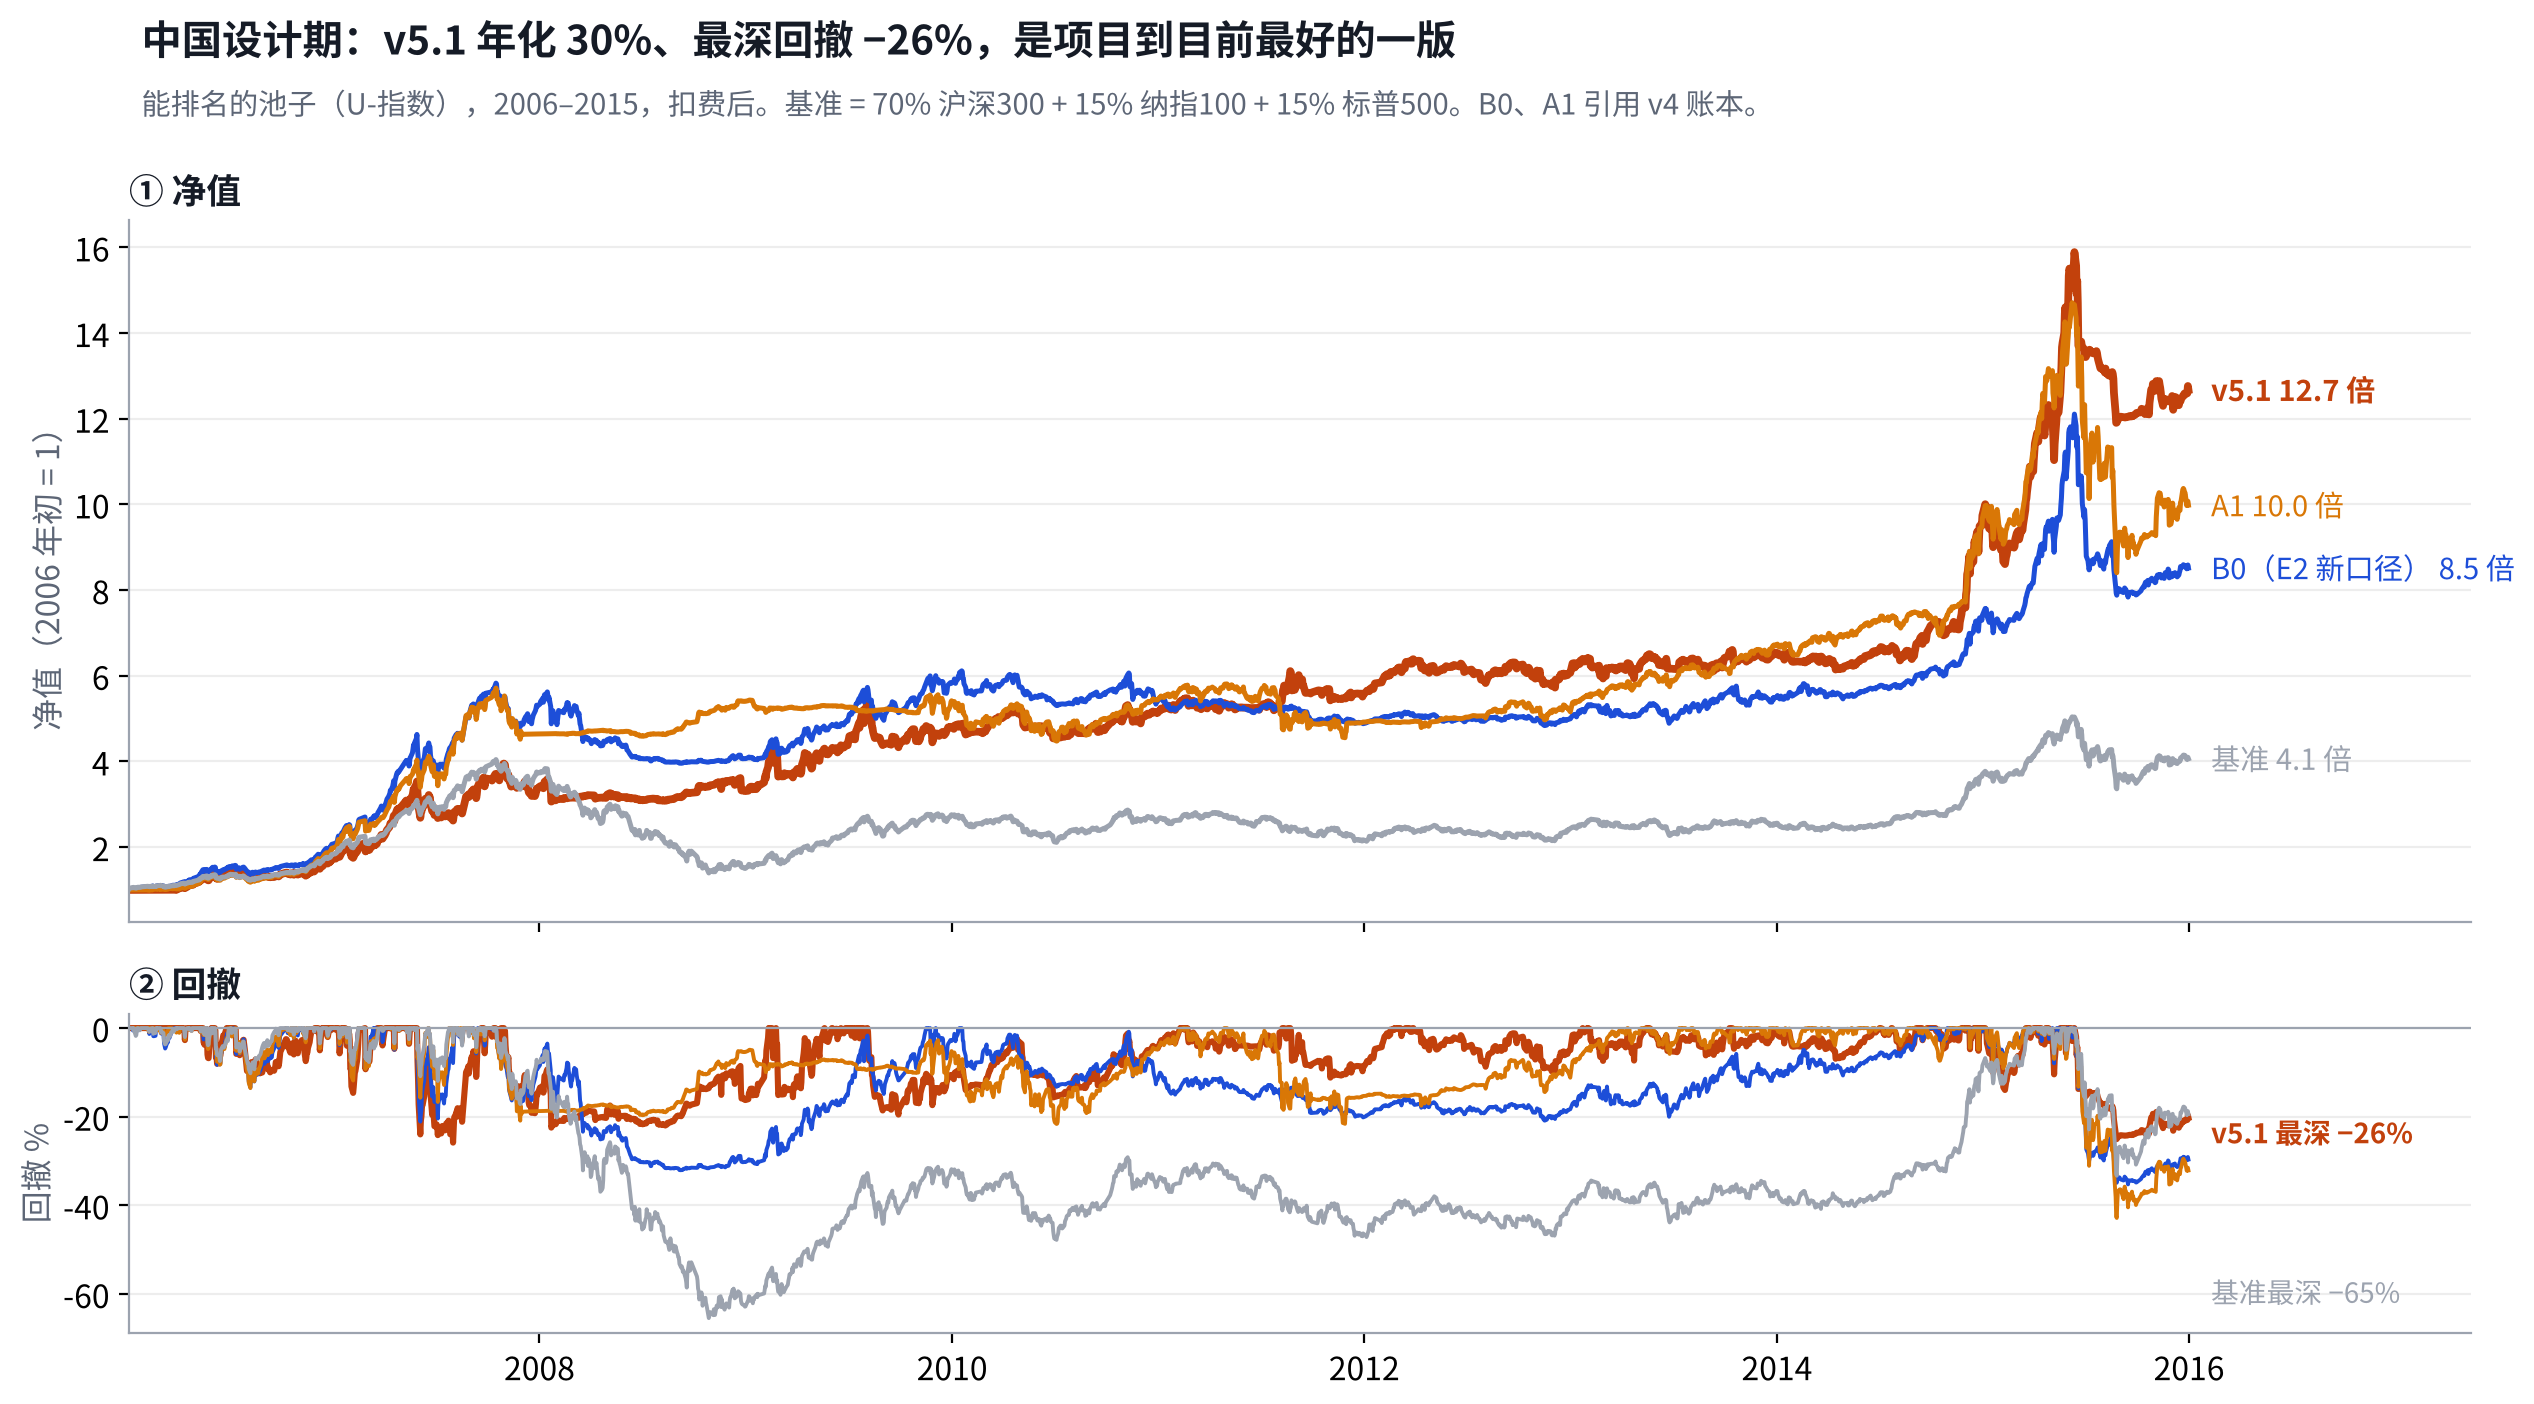
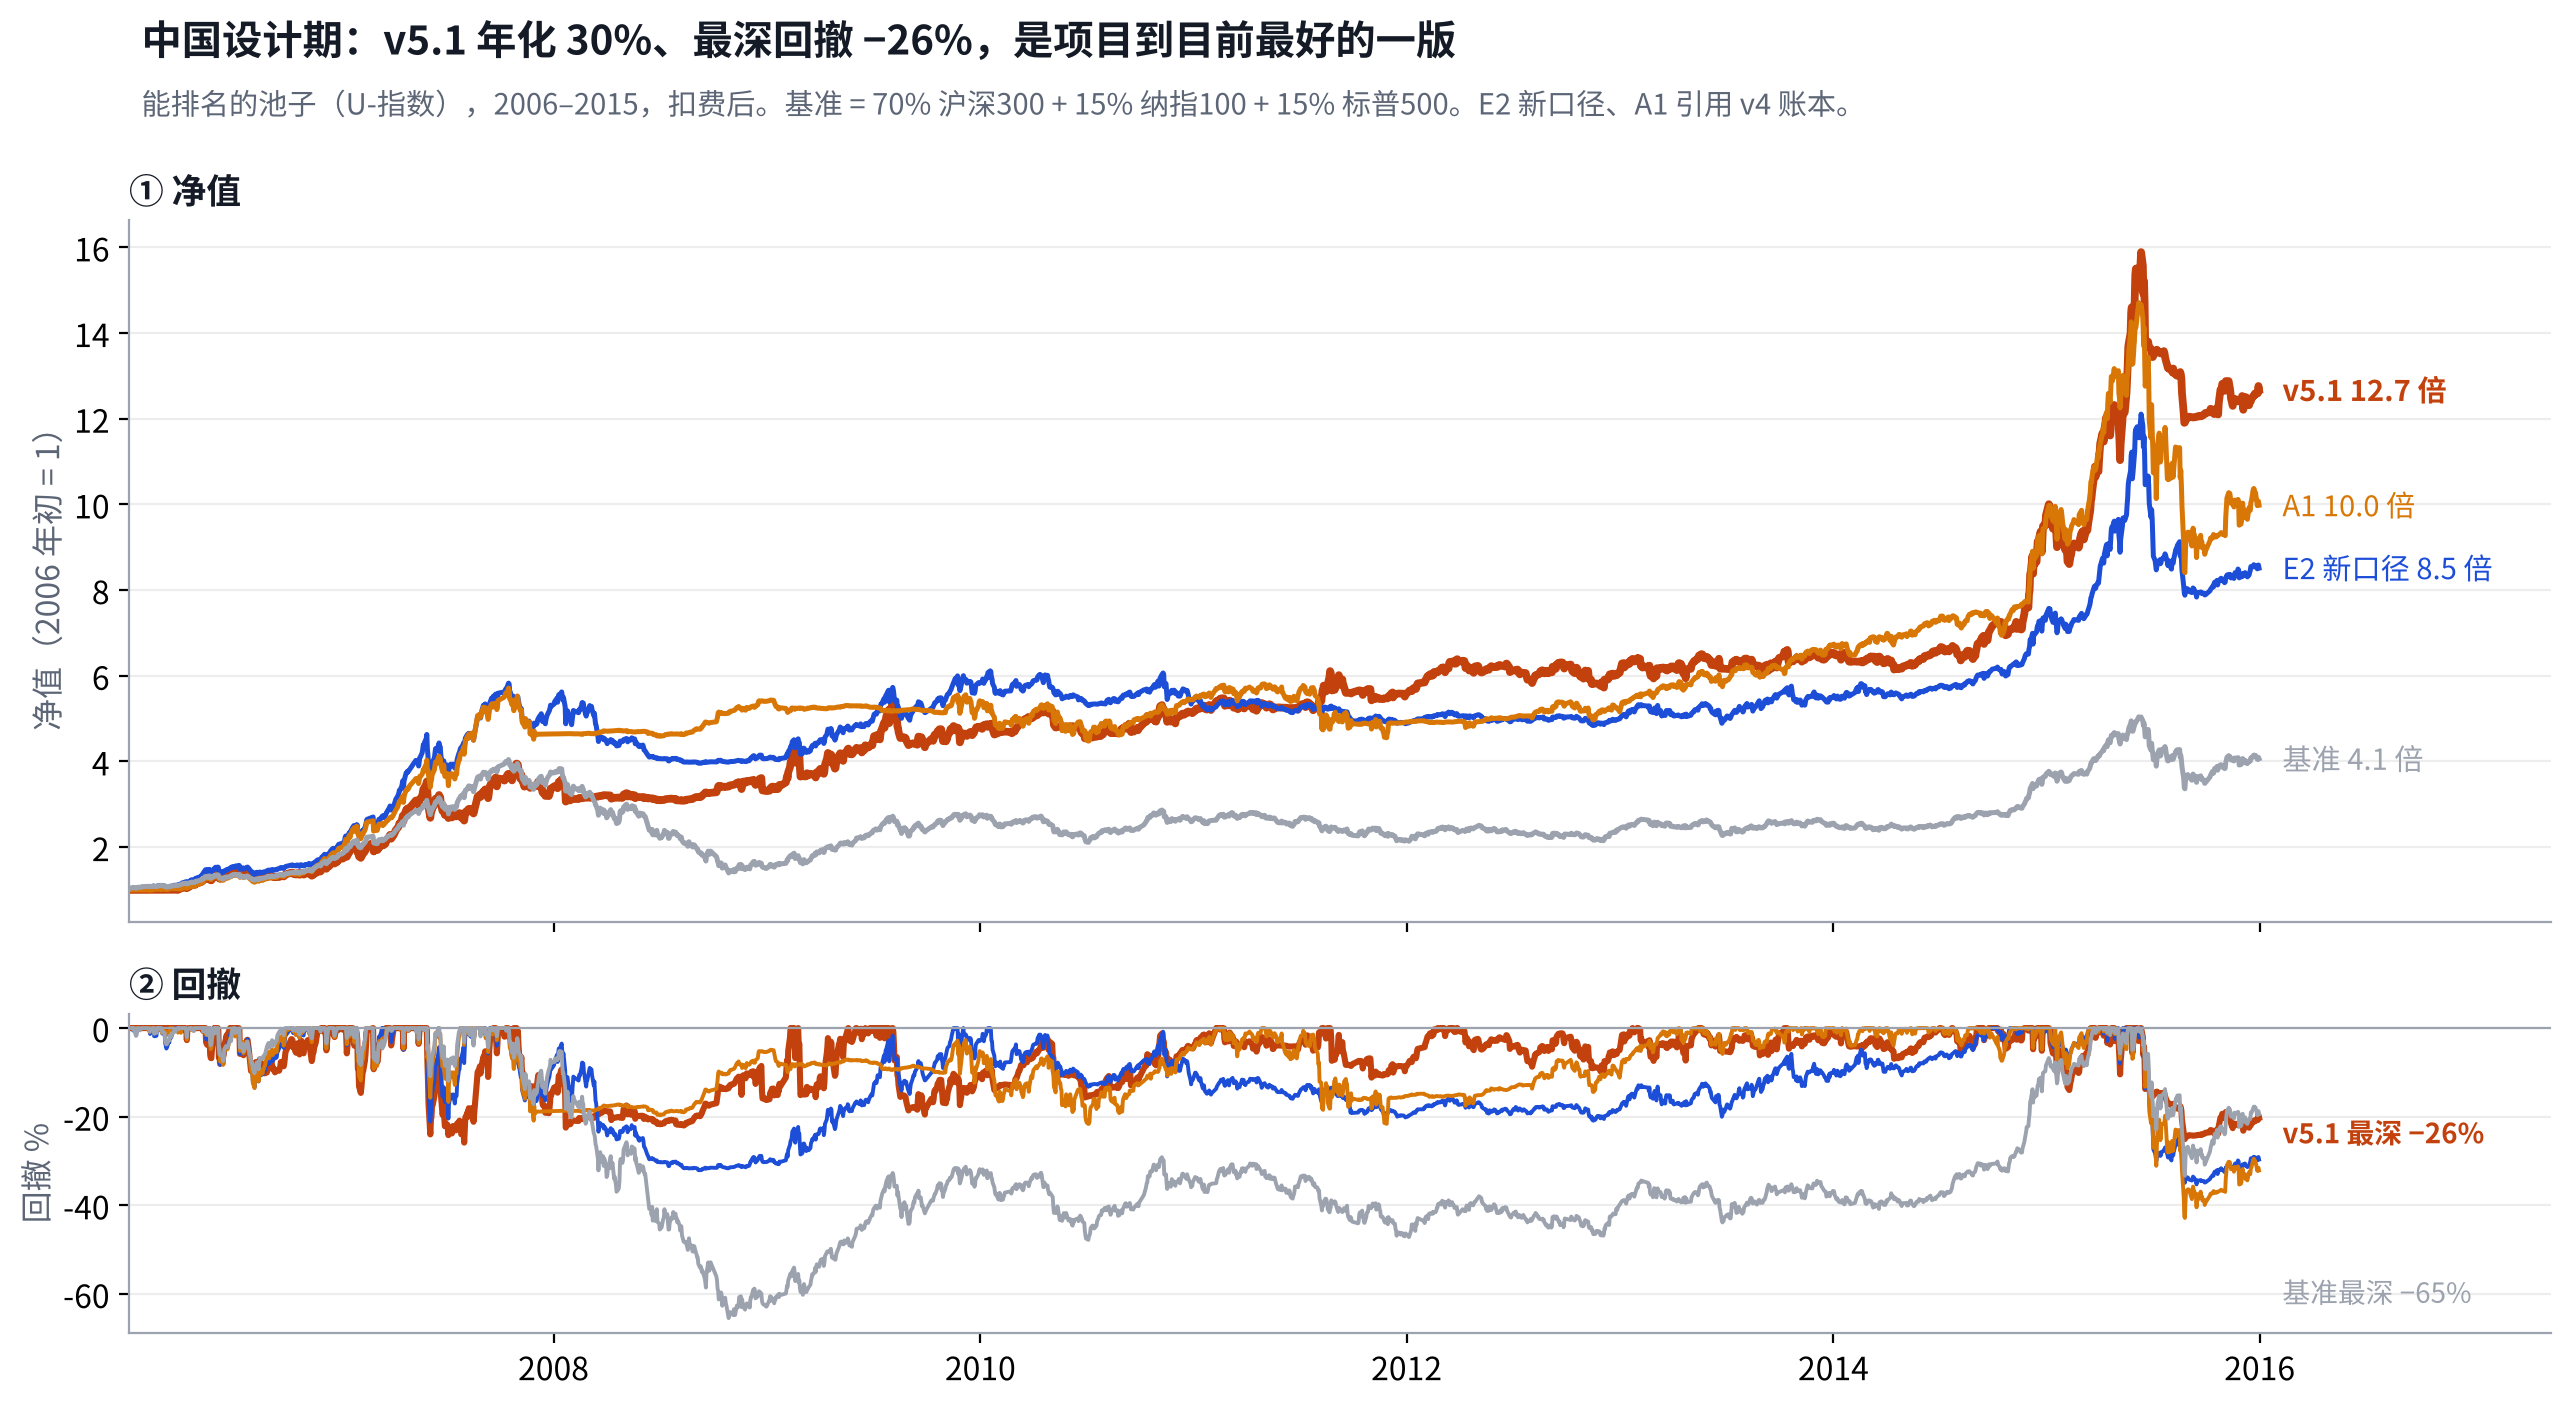
备忘 21.1：面向 Owner 统一用“E2 新口径”，不再用代号 B0
Claude-Session: https://claude.ai/code/session_01PmXaEwvnhMrSzwWPeiEpbL

diff --git a/results/v5.1/report/charts.py b/results/v5.1/report/charts.py
@@ -17,8 +17,8 @@ def net(f, col='net'):
 v = net(R / 'v5.1/design/index/daily.csv').loc['2006':'2015']
 b0 = net(R / 'v4/r5/design/B0/index/net.csv').loc['2006':'2015']; a1 = net(R / 'v4/r5/design/A1/index/net.csv').loc['2006':'2015']
 bm = net(R / 'v5.1/design/benchmark.csv', 'benchmark').loc['2006':'2015']
-df = pd.DataFrame({'v5.1': v, 'B0（E2 新口径）': b0, 'A1': a1, '基准': bm}).fillna(0); nav = (1 + df).cumprod()
-cols = {'v5.1': BAD, 'B0（E2 新口径）': BLUE, 'A1': A1C, '基准': GREY}
+df = pd.DataFrame({'v5.1': v, 'E2 新口径': b0, 'A1': a1, '基准': bm}).fillna(0); nav = (1 + df).cumprod()
+cols = {'v5.1': BAD, 'E2 新口径': BLUE, 'A1': A1C, '基准': GREY}
 fig, (ax, bx) = plt.subplots(2, 1, figsize=(13, 6.4), sharex=True, gridspec_kw={'height_ratios': [2.2, 1]})
 for c in nav:
     ax.plot(nav.index, nav[c], color=cols[c], lw=2.8 if c == 'v5.1' else 1.8, label=c)
@@ -29,7 +29,7 @@ bx.set_ylabel('回撤 %', color=MUTED); bx.grid(axis='y', alpha=.22); bx.axhline
 bx.text(nav.index[-1] + pd.Timedelta(days=40), -26, 'v5.1 最深 −26%', color=BAD, fontsize=10, weight='bold'); bx.text(nav.index[-1] + pd.Timedelta(days=40), -62, '基准最深 −65%', color=GREY, fontsize=10)
 ax.set_title('① 净值', loc='left', fontsize=12.5, weight='bold', color=INK); bx.set_title('② 回撤', loc='left', fontsize=12.5, weight='bold', color=INK)
 title(fig, '中国设计期：v5.1 年化 30%、最深回撤 −26%，是项目到目前最好的一版',
-      '能排名的池子（U-指数），2006–2015，扣费后。基准 = 70% 沪深300 + 15% 纳指100 + 15% 标普500。B0、A1 引用 v4 账本。')
+      '能排名的池子（U-指数），2006–2015，扣费后。基准 = 70% 沪深300 + 15% 纳指100 + 15% 标普500。E2 新口径、A1 引用 v4 账本。')
 fig.tight_layout(); fig.savefig(OUT / 'm18-v51-china.png', dpi=200, bbox_inches='tight', facecolor='white'); plt.close(fig)
 # m19
 rows = []

diff --git a/docs/owner/v5-research-memo.md b/docs/owner/v5-research-memo.md
@@ -21,7 +21,7 @@
 
 ## 0. 设计期结果：中国十年是最好的一版，换个市场不成立，v5.1 不入围
 
-> **中国设计期年化 30%、最深回撤 −26%，四个对照都赢了；但同一套规则放到美国 ETF 上，二十多年只有 1.3%。主要原因是换手太高：每年双边换手 43–59 倍，成本吃掉 3–6 个点，这是我事前画像里估错的地方。按跑之前写死的规则，v5.1 不入围，一次性检验只有 B0。**
+> **中国设计期年化 30%、最深回撤 −26%，四个对照都赢了；但同一套规则放到美国 ETF 上，二十多年只有 1.3%。主要原因是换手太高：每年双边换手 43–59 倍，成本吃掉 3–6 个点，这是我事前画像里估错的地方。按跑之前写死的规则，v5.1 不入围，一次性检验只有 E2 新口径。**
 
 ### ① 入围 7 条：过了 5 条，栽在“换个市场”和“顺应市场”
 
@@ -35,20 +35,20 @@
 | **5 别的市场也成立** | 美国 ETF 上赢随机、赢基准 | 年化 **1.3%**，基准 8.2% | **未通过** |
 | **6 顺应市场** | 牛市超额 ≥ 0；反弹 t 值 ≥ −2 | 牛市 **−28**；反弹 t 值 **−2.36** | **未通过** |
 
-第 2 条通过，所以 A1 的退路不启用；入围名单只有 B0。这些都是跑之前写死的，看到结果以后不改。
+第 2 条通过，所以 A1 的退路不启用；入围名单只有 E2 新口径（预注册里的代号是 B0）。这些都是跑之前写死的，看到结果以后不改。
 
 ### ② 中国十年：每一年和事前画像对得上
 
 ![中国设计期 v5.1、B0、A1、基准的净值和回撤](../assets/v5-memo/m18-v51-china.png)
 
-| 年份 | 事前预测（和 B0 比） | v5.1 | B0 | 基准 | 对了吗 |
+| 年份 | 事前预测（和 E2 新口径比） | v5.1 | E2 新口径 | 基准 | 对了吗 |
 | --- | --- | --- | --- | --- | --- |
 | **2006–07** | 少赚 | 74%、93% | 106%、156% | 83%、104% | **对** |
 | **2008** | 略好 | **−1%** | −23% | −60% | **对** 好得比预想多 |
-| **2009** | 少赚 | 45% | 43% | 83% | **一半** 跑输基准，但没输 B0 |
+| **2009** | 少赚 | 45% | 43% | 83% | **一半** 跑输基准，但没输 E2 新口径 |
 | **2010–14** | 明显多赚 | 7、8、9、8、49% | −7、−10、2、10、35% | −4、−18、12、5、45% | **对** |
 | **2015** | 略好 | **30%** | 15% | 10% | **对** 好得比预想多 |
-| **可交易池** | 明显好于 B0 | 15.8% | 8.7% | 15.6% | **对** |
+| **可交易池** | 明显好于 E2 新口径 | 15.8% | 8.7% | 15.6% | **对** |
 
 - **转折时点都落在疼痛表里**：2007、2009、2015 年见顶后 8–27 天减到半仓；2008 年见底后 10 天回到半仓、45 天满仓。和设计时的画像完全一致。
 - **稳健**：17 行稳健性里，指数池年化在 24–38% 之间；成本加倍 25.8%，只在周末减仓 28.6%，不设硬闸门 30.0%，去掉最好的 3 只仍是 30.8%。
@@ -70,7 +70,7 @@
 ### ⑤ 接下来
 
 1. **按 D27 封板**：v5 是封板前最后一个版本，不论结果都封板；v5.1 不再改。
-2. **一次性检验**：入围只有 B0（E2 新口径），在 2016–2026 已污染检验段跑一次，须你批准、写 LOCK。
+2. **一次性检验**：入围只有 E2 新口径，在 2016–2026 已污染检验段跑一次，须你批准、写 LOCK。
 3. **留给 v6 的三条**：① 第一层仓位加回差，减仓线和加仓线分开（来回切是最大的换手来源）；② 第二层少换人，比如新的必须明显更强才换；③ 跑前评估把触发次数换算成成本。v6 按 D27-5 的路径：设计证据 → 别的市场 → 至少 6 个月并行模拟 → 小资金起步。
 
 全部结果都经 Reviewer 独立复算签收：设计期、对照、别的市场、稳健性 17 行、同结构随机、换手拆解（`results/v5.1/`）。账本 30 行，判据 ⑤ 只数可能入围的配置。
